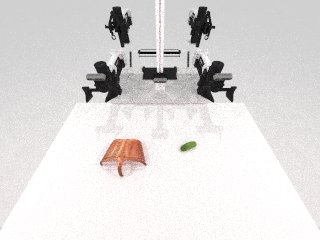
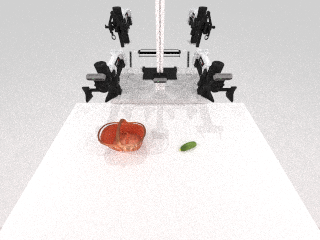
Add visual review gate for placement smoke

Changed region(s): [[0.2812, 0.4958, 0.5312, 0.7583]]

diff --git a/harness/run_placement_pipeline.py b/harness/run_placement_pipeline.py
@@ -43,6 +43,16 @@ def main() -> int:
     parser.add_argument("--settle-steps", type=int, default=240)
     parser.add_argument("--video-frames", type=int, default=60)
     parser.add_argument("--fps", type=int, default=15)
+    parser.add_argument(
+        "--visual-review-mode",
+        choices=["required", "artifact_only"],
+        default="required",
+        help="required prevents smoke artifact existence from being treated as semantic visual pass.",
+    )
+    parser.add_argument(
+        "--visual-review-report",
+        help="Optional human/VLM/Codex-visual review JSON. status must be pass for final pipeline pass.",
+    )
     args = parser.parse_args()
 
     asset_catalog_path = Path(args.asset_catalog)
@@ -129,7 +139,9 @@ def main() -> int:
             smoke_report_path = out_dir / "smoke_report_with_command.json"
             write_json(smoke_report_path, smoke_report)
 
-            visual_review_report = visual_review(smoke_dir, args.prompt)
+            visual_review_report = visual_review(smoke_dir, args.prompt, mode=args.visual_review_mode)
+            if args.visual_review_report:
+                visual_review_report = read_json(Path(args.visual_review_report))
             visual_review_path = out_dir / "visual_review.json"
             write_json(visual_review_path, visual_review_report)
 
@@ -141,13 +153,30 @@ def main() -> int:
                     "preview": get_smoke_artifacts(smoke_dir),
                 }
             )
-            summary["status"] = "pass" if smoke_report.get("status") == "pass" and smoke_report.get("returncode") == 0 else "fail_smoke"
+            smoke_passed = smoke_report.get("status") == "pass" and smoke_report.get("returncode") == 0
+            visual_status = str(visual_review_report.get("status", ""))
+            if not smoke_passed:
+                summary["status"] = "fail_smoke"
+            elif visual_status == "pass":
+                summary["status"] = "pass"
+            elif visual_status.startswith("fail"):
+                summary["status"] = "fail_visual_review"
+            else:
+                summary["status"] = "pending_visual_review"
         else:
             summary["status"] = "pass_static_only"
 
         write_json(out_dir / "pipeline_summary.json", summary)
-        print(f"PASS {out_dir / 'pipeline_summary.json'}")
-        return 0 if summary["status"].startswith("pass") else 1
+        if summary["status"] == "pass":
+            label = "PASS"
+        elif summary["status"] == "pass_static_only":
+            label = "PASS_STATIC_ONLY"
+        elif summary["status"] == "pending_visual_review":
+            label = "REVIEW_REQUIRED"
+        else:
+            label = "FAIL"
+        print(f"{label} {out_dir / 'pipeline_summary.json'}")
+        return 0 if summary["status"] in ["pass", "pending_visual_review", "pass_static_only"] else 1
     except Exception as exc:
         summary["status"] = "fail_exception"
         summary["error"] = repr(exc)

diff --git a/mcp_lite/tools.py b/mcp_lite/tools.py
@@ -100,18 +100,25 @@ def get_smoke_artifacts(smoke_dir: Path) -> dict[str, Any]:
     }
 
 
-def visual_review(smoke_dir: Path, prompt: str) -> dict[str, Any]:
+def visual_review(smoke_dir: Path, prompt: str, mode: str = "required") -> dict[str, Any]:
     artifacts = get_smoke_artifacts(smoke_dir)
     missing = [name for name, exists in artifacts["exists"].items() if name != "observer_video" and not exists]
+    if missing:
+        status = "fail_missing_artifacts"
+    elif mode == "artifact_only":
+        status = "pending_visual_critic_artifacts_only"
+    else:
+        status = "pending_human_or_vlm_visual_review"
     return {
         "schema_version": "robotwin.tabletop_visual_review.v0",
         "prompt": prompt,
-        "status": "pass_pending_human_or_vlm_semantic_review" if not missing else "fail_missing_artifacts",
+        "status": status,
+        "review_mode": mode,
         "artifacts": artifacts,
         "missing_required_artifacts": missing,
         "notes": [
-            "This MCP-lite review only checks that render artifacts exist.",
-            "Human or VLM review should verify object identity, visibility, and prompt match.",
+            "Artifact existence is not a semantic visual review.",
+            "A human, Codex visual reference review, or external VLM must check object identity, orientation, table contact, penetration, occlusion, and prompt match before the scene is accepted.",
         ],
     }
 
@@ -149,6 +156,7 @@ def main() -> int:
     p_visual = sub.add_parser("visual-review")
     p_visual.add_argument("--smoke-dir", required=True)
     p_visual.add_argument("--prompt", required=True)
+    p_visual.add_argument("--mode", choices=["required", "artifact_only"], default="required")
 
     args = parser.parse_args()
 
@@ -174,12 +182,12 @@ def main() -> int:
     elif args.command == "get-smoke-artifacts":
         result = get_smoke_artifacts(Path(args.smoke_dir))
     elif args.command == "visual-review":
-        result = visual_review(Path(args.smoke_dir), args.prompt)
+        result = visual_review(Path(args.smoke_dir), args.prompt, mode=args.mode)
     else:
         raise AssertionError(args.command)
 
     print(json.dumps(result, indent=2))
-    return 0 if result.get("status", "pass") not in ["fail", "fail_missing_artifacts"] else 1
+    return 0 if not str(result.get("status", "")).startswith("fail") else 1
 
 
 if __name__ == "__main__":

diff --git a/harness/model_providers.py b/harness/model_providers.py
@@ -79,12 +79,16 @@ def design_initial_spec(
         role_candidates = entry.get("placement_affordances", {}).get("role_candidates", ["scene_object"])
         region = regions[min(idx, len(regions) - 1)]
         xyz = poses[min(idx, len(poses) - 1)]
-        qpos = [1, 0, 0, 0]
+        placement_defaults = entry.get("placement_defaults", {})
+        qpos = placement_defaults.get("qpos", [1, 0, 0, 0])
         if entry["asset_id"] == "003_plate":
             qpos = [0.5, 0.5, 0.5, 0.5]
         affordances = entry.get("placement_affordances", {})
         role = role_candidates[0]
         is_static_background = role in {"container_candidate", "support_or_target_candidate"} or affordances.get("support_surface_candidate", False)
+        if "is_static" in placement_defaults:
+            is_static_background = bool(placement_defaults["is_static"])
+        z_policy = placement_defaults.get("z_policy", "snap_to_tabletop_on_load")
         objects.append(
             {
                 "id": f"{semantic}_1",
@@ -92,7 +96,7 @@ def design_initial_spec(
                 "asset_id": entry["asset_id"],
                 "model_id": model_id,
                 "role": role,
-                "pose": {"region": region, "xyz": xyz, "qpos": qpos, "z_policy": "snap_to_tabletop_on_load"},
+                "pose": {"region": region, "xyz": xyz, "qpos": qpos, "z_policy": z_policy},
                 "physical": {
                     "is_static": is_static_background,
                     "collision": True,
@@ -103,6 +107,7 @@ def design_initial_spec(
                     "scale": metadata.get("scale"),
                     "graspable": affordances.get("graspable", False),
                     "support_surface_candidate": affordances.get("support_surface_candidate", False),
+                    "placement_defaults": placement_defaults,
                 },
                 "affordance_notes": [],
             }

diff --git a/robotwin2_text2env_scenesmith_lite_plan.md b/robotwin2_text2env_scenesmith_lite_plan.md
@@ -888,6 +888,18 @@ local_vlm
 - 每个 tool 都要求有输入 schema、输出 schema 和最小测试。
 - 不把 RoboTwin 大资产、data、logs、HDF5 纳入 repo。
 
+### Risk 7: Static Critic 误把视觉失败当作通过
+
[phone redacted] 的 vegetable/basket 测试暴露了这个问题：static validation 和 RoboTwin smoke 都可能通过，但 basket 在 preview 里仍然可能出现朝向错误或穿模。这个问题不能只靠 JSON validator 解决。
+
+处理方式：
+
+- Critic 必须分成 static Critic 和 visual Critic / VLM Critic。
+- `smoke pass` 只表示 RoboTwin 能加载、能渲染，不等于 scene visually valid。
+- pipeline 默认状态改为 `pending_visual_review`，直到 human / VLM / Codex visual reference 明确给出 pass。
+- visual Critic 必须检查 object identity、orientation、table contact、penetration、floating、occlusion 和 prompt match。
+- 对资产库中坐标系特殊的资产，必须把 `placement_defaults.qpos` 等 pose hint 写进 asset catalog，而不是靠 Designer 临场猜。
+
 ---
 
 ## 14. 远程环境状态

diff --git a/skills/review-robotwin-smoke-preview/SKILL.md b/skills/review-robotwin-smoke-preview/SKILL.md
@@ -1,6 +1,6 @@
 # Review RoboTwin Smoke Preview
 
-Use this skill when checking RoboTwin smoke outputs from a placement run.
+Use this skill when checking RoboTwin smoke outputs from a placement run. Smoke success only proves that RoboTwin loaded and rendered the scene; it is not enough to accept the scene.
 
 ## Checks
 
@@ -8,5 +8,7 @@ Use this skill when checking RoboTwin smoke outputs from a placement run.
 - `head_camera.png` and `observer_camera.png` exist.
 - Optional `observer_camera.mp4` exists.
 - The preview should be inspected by a human or VLM for object identity, prompt match, floating, penetration, severe occlusion, and wrong object count.
+- Mark the scene failed when an object is visibly sideways, upside down, penetrating the table, floating, severely occluded, or semantically wrong.
+- Mark the scene pending when no human/VLM/Codex-visual review has inspected the image.
 
 This skill does not replace a visual model. It defines the review criteria and artifact contract.

diff --git a/skills/review-robotwin-smoke-preview/SKILL.zh-CN.md b/skills/review-robotwin-smoke-preview/SKILL.zh-CN.md
@@ -1,6 +1,6 @@
 # 审查 RoboTwin Smoke Preview
 
-当需要检查 placement run 产生的 RoboTwin smoke 输出时使用这个 skill。
+当需要检查 placement run 产生的 RoboTwin smoke 输出时使用这个 skill。Smoke success 只说明 RoboTwin 能加载并渲染场景，不等于这个场景视觉上正确。
 
 ## 检查项
 
@@ -8,5 +8,7 @@
 - `head_camera.png` 和 `observer_camera.png` 存在。
 - 可选的 `observer_camera.mp4` 存在。
 - preview 需要由人工或 VLM 继续检查 object identity、prompt match、floating、penetration、严重遮挡和错误物体数量。
+- 如果物体明显侧躺、倒置、穿桌、悬空、严重遮挡或语义错误，必须标记为 fail。
+- 如果还没有人工 / VLM / Codex visual review 真正看过图片，只能标记为 pending，不能标记为 pass。
 
 这个 skill 不替代视觉模型。它定义的是 review 标准和 artifact contract。